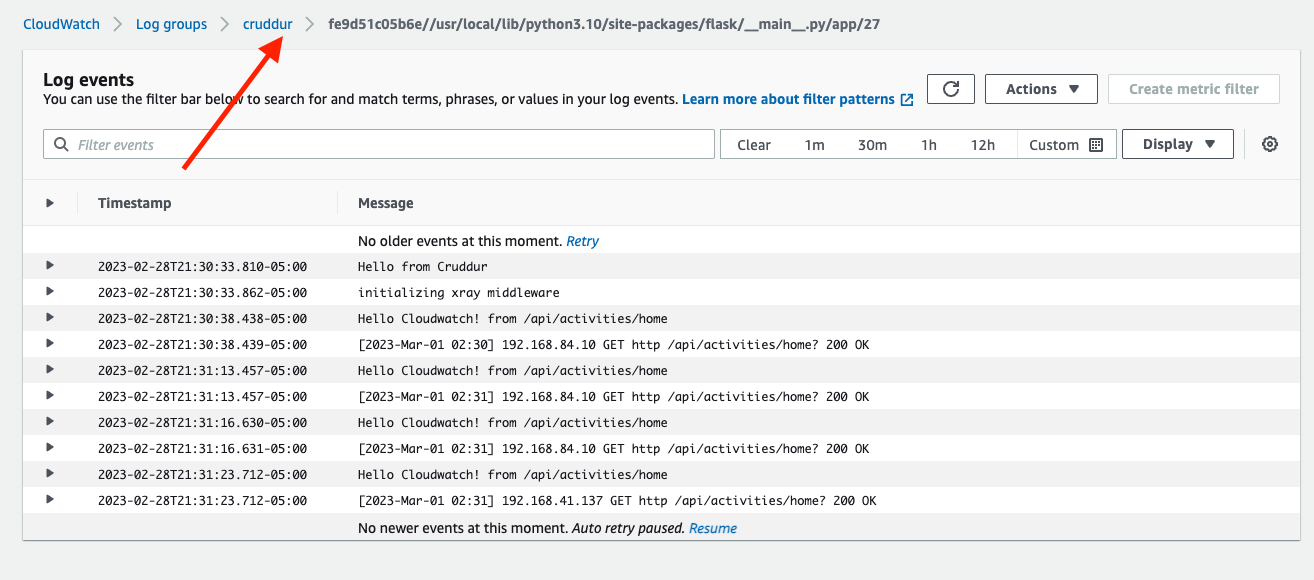
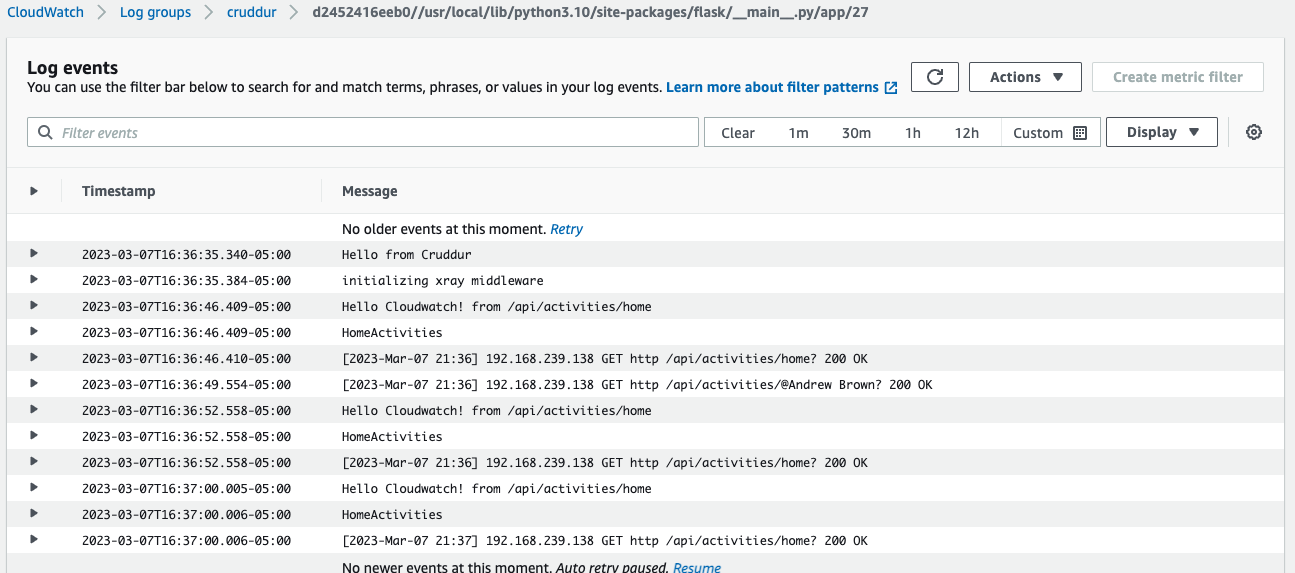
complete cw logs activities

diff --git a/backend-flask/services/home_activities.py b/backend-flask/services/home_activities.py
@@ -4,8 +4,8 @@ from opentelemetry import trace
 tracer = trace.get_tracer("home.activities")
 
 class HomeActivities:
-  def run():
-    LOGGER.info("HomeActivities")
+  def run(logger):
+    logger.info("HomeActivities")
     with tracer.start_as_current_span("home-activities-mock-data"):
       span = trace.get_current_span()
       

diff --git a/backend-flask/app.py b/backend-flask/app.py
@@ -115,7 +115,7 @@ def data_create_message():
 @app.route("/api/activities/home", methods=['GET'])
 def data_home():
   LOGGER.info('Hello Cloudwatch! from /api/activities/home')
-  data = HomeActivities.run()
+  data = HomeActivities.run(LOGGER)
   return data, 200
 
 @app.route("/api/activities/notifications", methods=['GET'])
